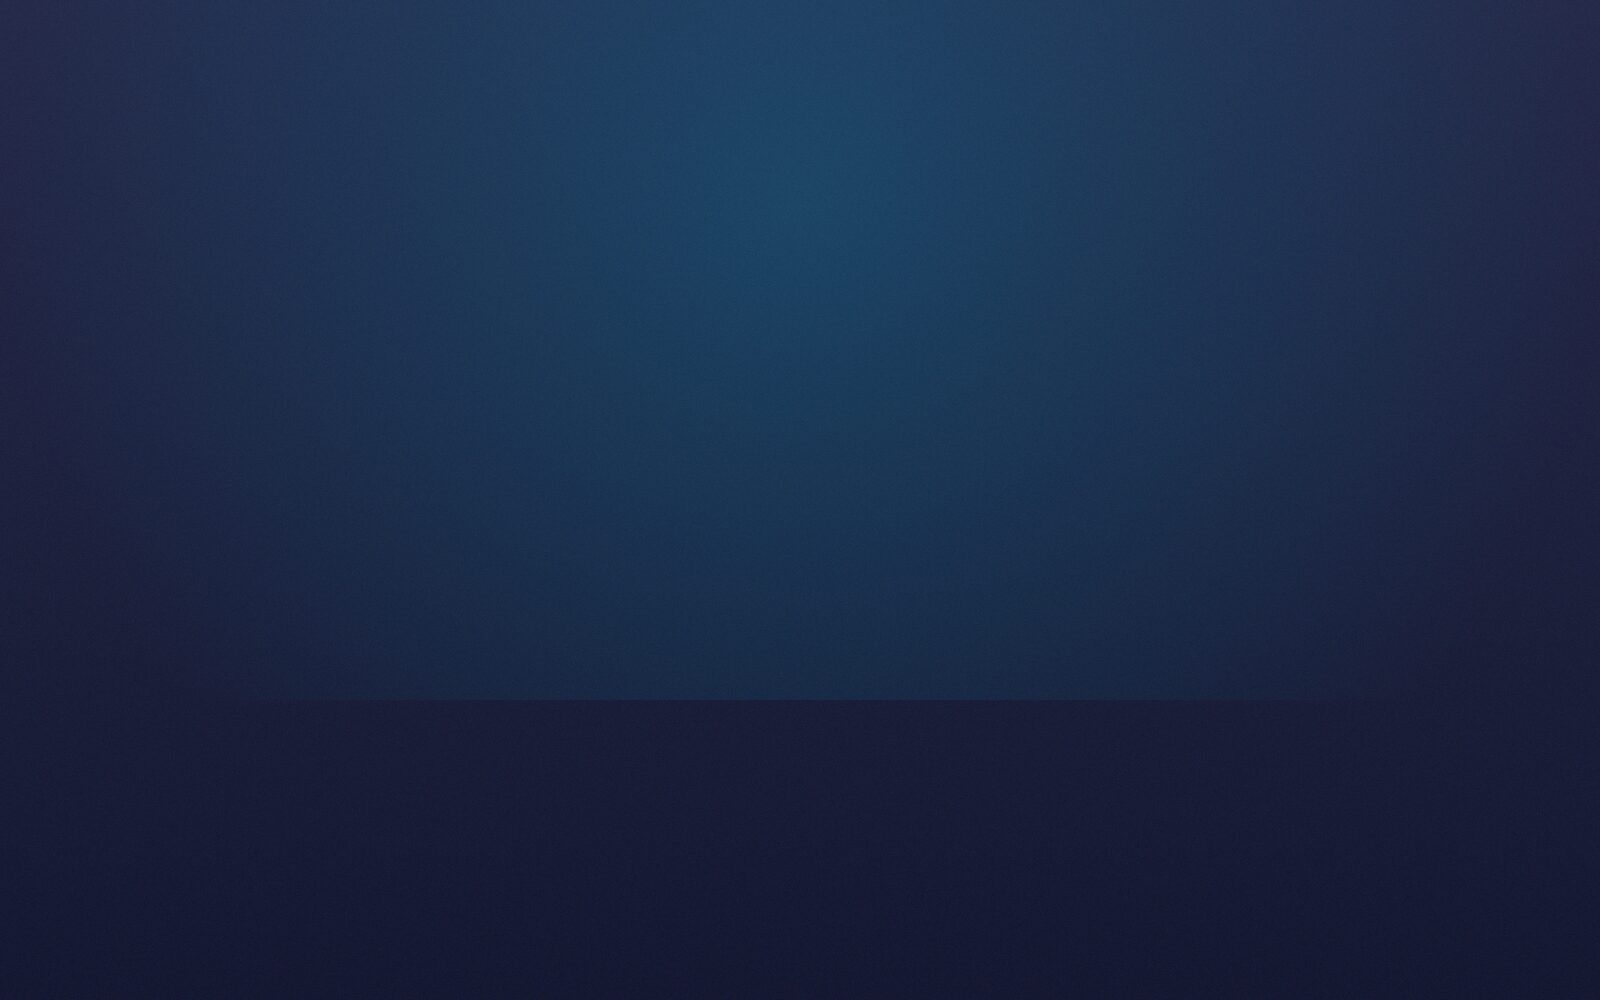
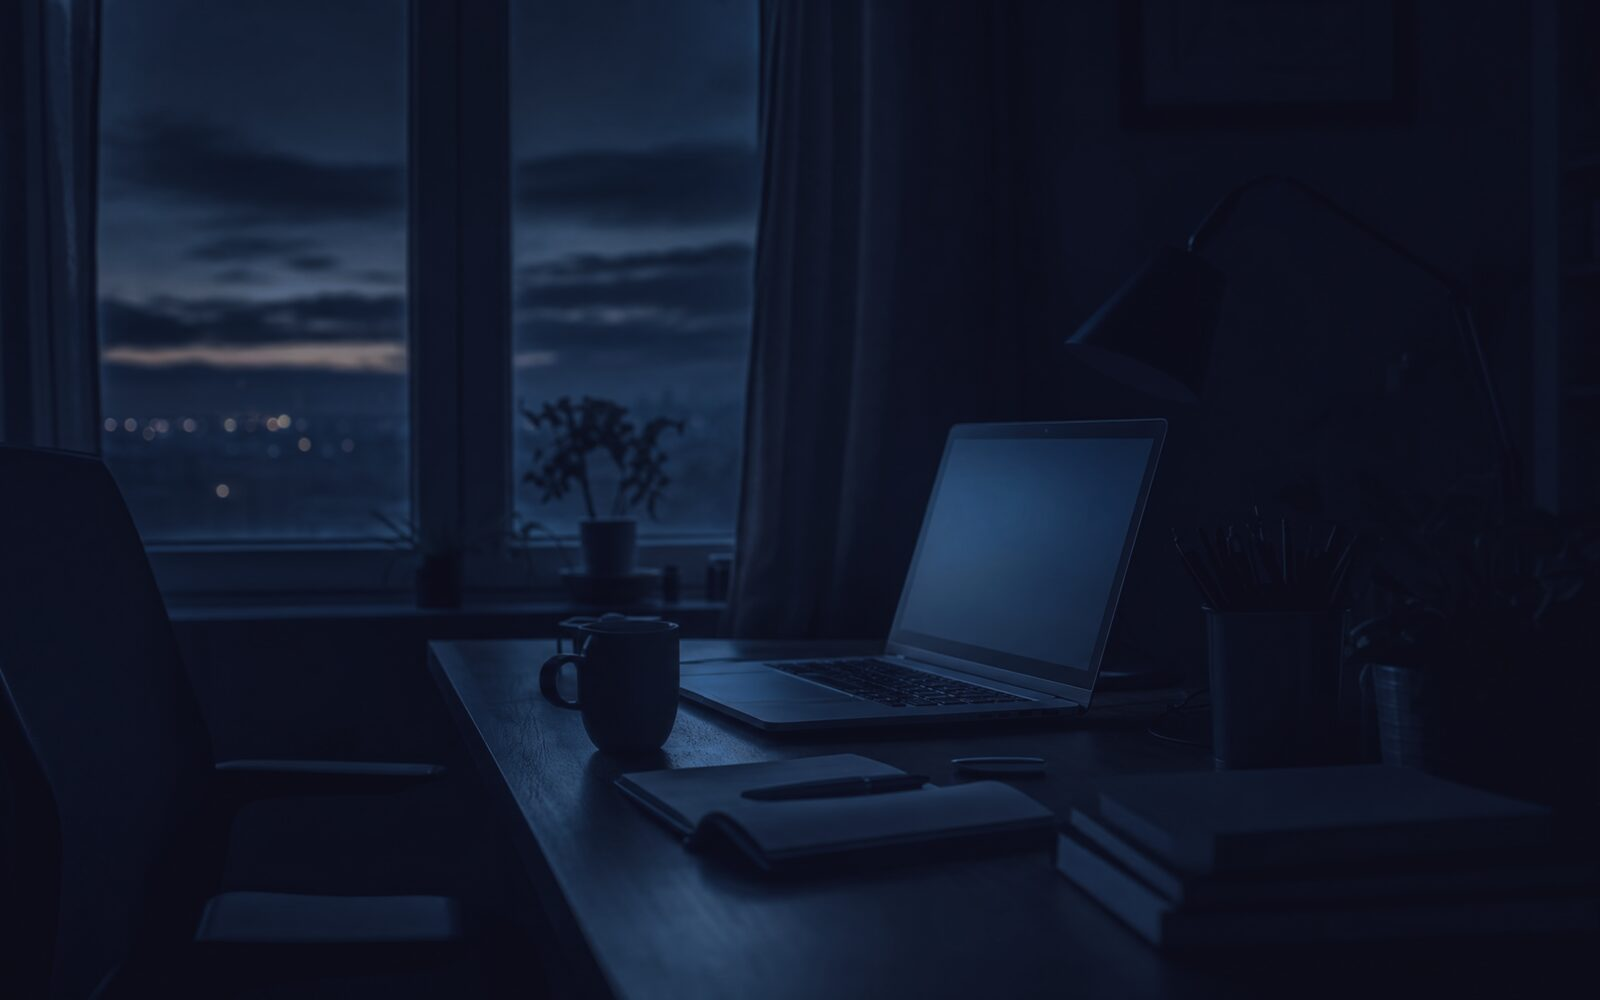
feat: AI photo backdrops for intermission slides + lighter shade so they read
GPT Image 2 scenes tinted into the navy palette: pre-dawn desk (daily),
shadowed clock (deadline), red-pinned note (note), Docklands at night (reward).
Shade gradient eased 88/97/100 -> 62/82/94 for photo visibility; text verified
legible at wall scale.

Claude-Session: https://claude.ai/code/session_013eniFtckzs185iu2YcbkCY

diff --git a/app/components/GoalsIntermission.tsx b/app/components/GoalsIntermission.tsx
@@ -277,7 +277,7 @@ const readMotionServer = (): boolean => false;
 
 function cardBackground(kind: Slide["kind"], accent: string): string {
   const wash = `radial-gradient(120% 120% at 50% 0%, color-mix(in srgb, ${accent} 14%, transparent) 0%, transparent 55%)`;
-  const shade = `linear-gradient(180deg, color-mix(in srgb, var(--bg-card) 88%, transparent) 0%, color-mix(in srgb, var(--bg-card) 97%, transparent) 70%, var(--bg-card) 100%)`;
+  const shade = `linear-gradient(180deg, color-mix(in srgb, var(--bg-card) 62%, transparent) 0%, color-mix(in srgb, var(--bg-card) 82%, transparent) 70%, color-mix(in srgb, var(--bg-card) 94%, transparent) 100%)`;
   const image = `url(/intermission/${kind}.jpg) center / cover no-repeat`;
   return `${wash}, ${shade}, ${image}, var(--bg-card)`;
 }
